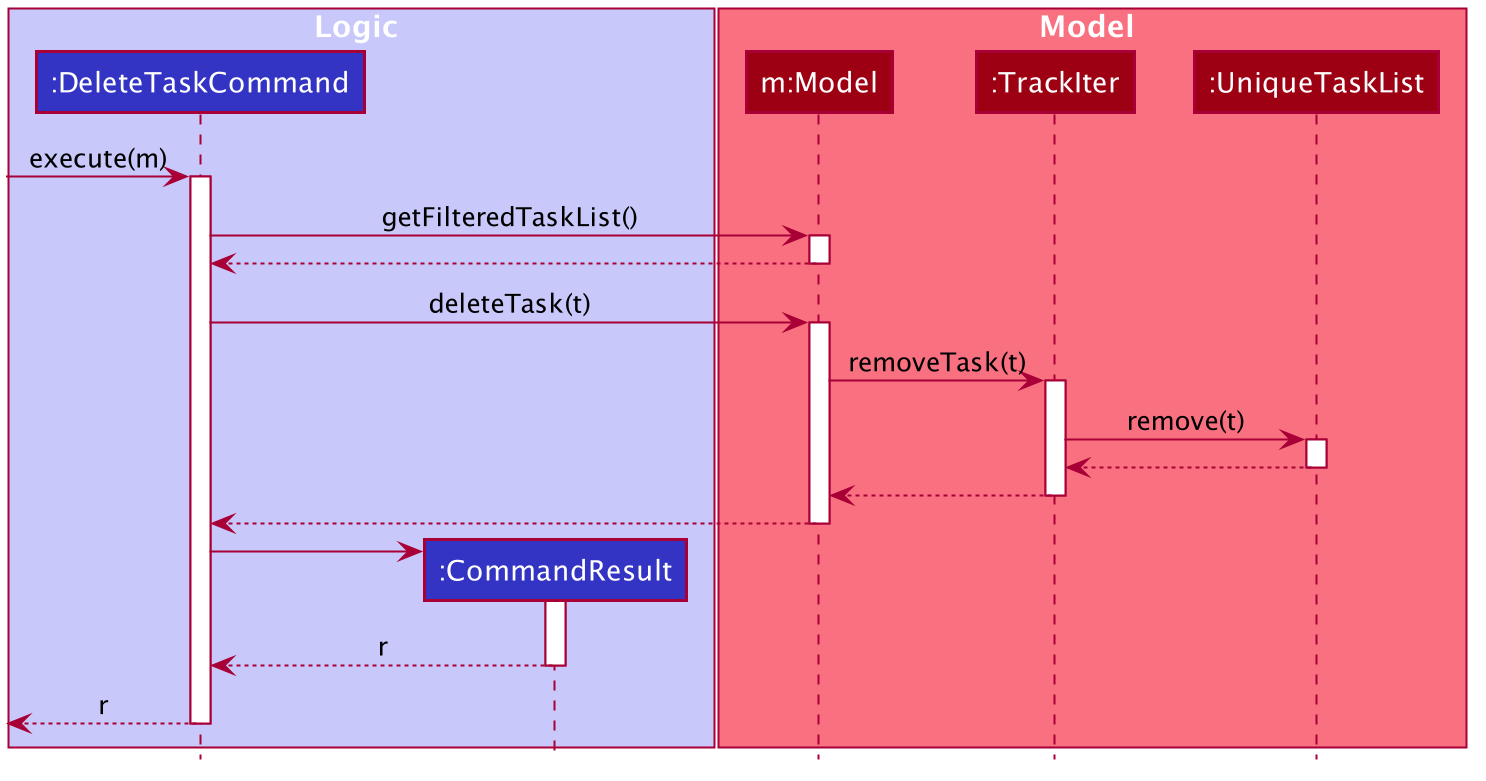
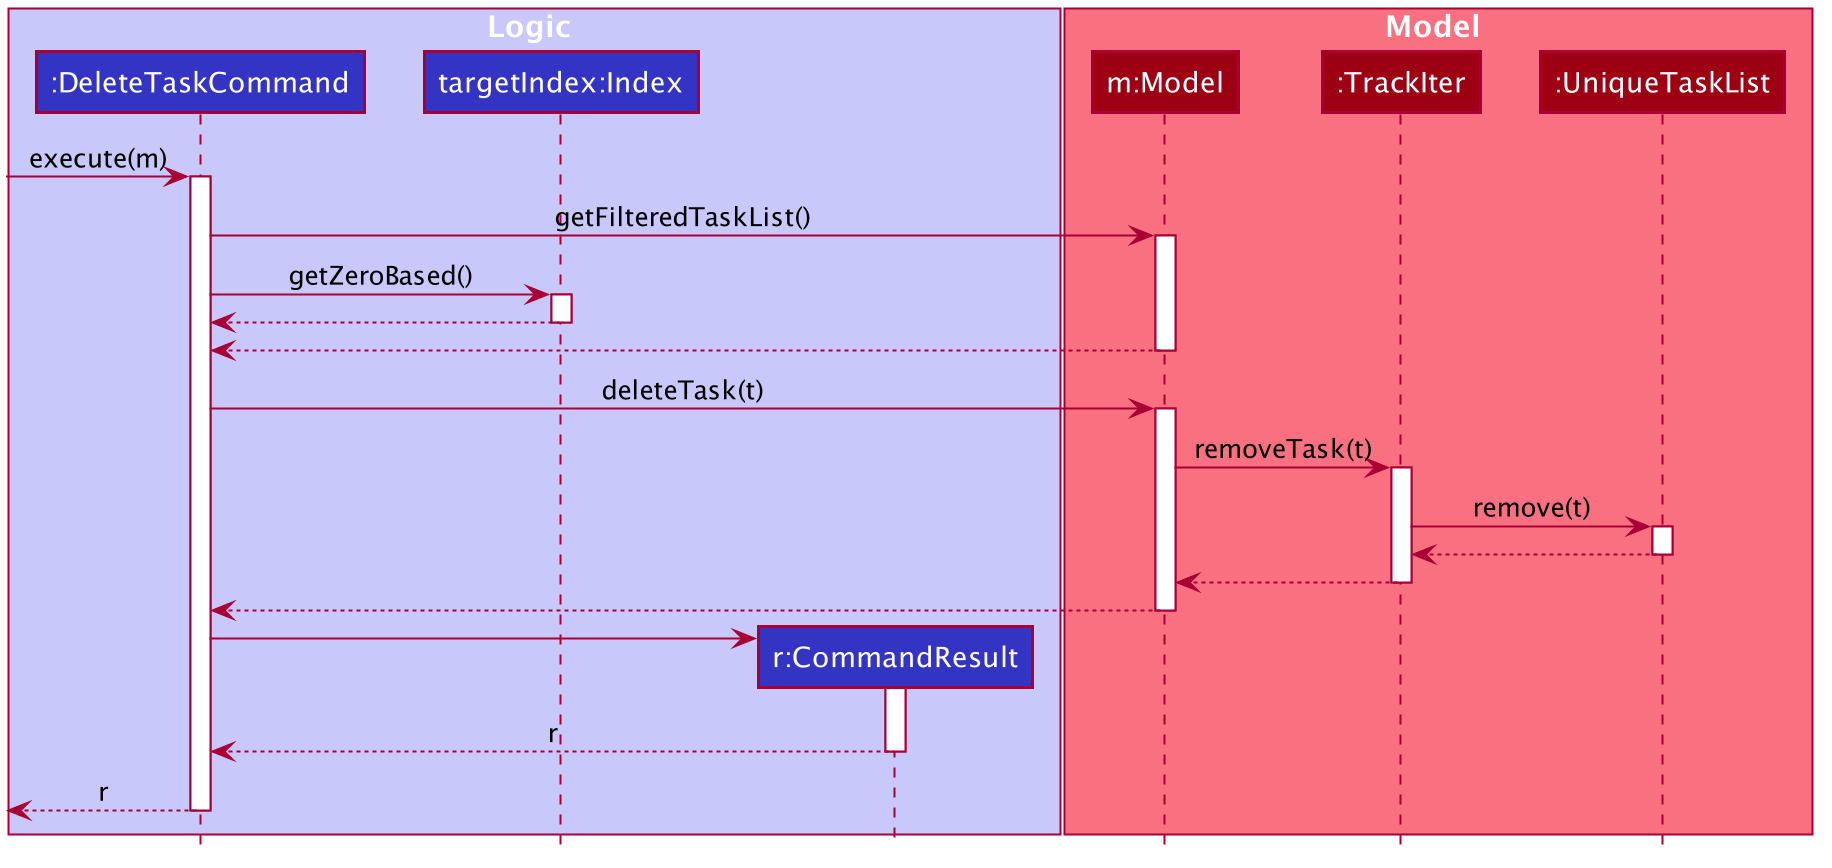
Improve explanations

Changed region(s): [[0.0, 0.0, 0.9906, 0.9834], [0.2786, 0.8297, 0.3096, 0.8912]]

diff --git a/docs/DeveloperGuide.md b/docs/DeveloperGuide.md
@@ -36,7 +36,7 @@ By: `Team W13-4` Since: `Aug 2020` License: `MIT`
 **TrackIt@NUS** is a desktop application for managing modules, lessons, tasks, and contacts, tailored to the needs of
  NUS students. It focuses on the _Command Line Interface (CLI)_ while providing users with a simple and clean
   _Graphical User Interface (GUI)_. The main iteraction with **TrackIt@NUS** will be done via commands.
-  
+
 **TrackIt@NUS** is an all-in-one solution for busy NUS students. The information that can be managed by **TrackIt@NUS
 ** includes:
 
@@ -63,6 +63,9 @@ In this section, you will learn about the general design and structure TrackIt@N
 
 ### **Architecture** <a name="architecture"></a>
 
+We implemented most of our methods in a similar way to ensure that the logic is uniform. This makes our code less bug
+-prone, and more maintainable.
+
 ### **UI Component** <a name="ui"></a>
 
 ### **Logic Component** <a name="logic"></a>
@@ -85,61 +88,99 @@ This section describes some noteworthy details on how certain features are imple
 
 ### **Task Manager** <a name="task-manager"></a>
 
-TrackIt@NUS allows users to keep track of his/her tasks. The task manager is one of TrackIt@NUS's basic operations
-.
+TrackIt@NUS allows users to keep track of his/her tasks. The task manager is one of TrackIt@NUS's basic components.
  
  #### Rationale
  
- The task manager is a crucial feature in TrackIt@NUS. Tasks are an integral part of any student's day-to-day life
- . In addition, to better support NUS students, a task can either belong to a module or not. When adding a task, users
-  can choose to the include the `m/MODULE_CODE` parameter in order to add a task that belongs to a module. When users
-   click into a specific module tab, they can see the tasks belonging to each module.
+ Tasks are an integral part of any student's day-to-day life. Hence, TrackIt@NUS includes a task manager for students to 
+ keep track of all their tasks. To better support NUS students, a task can either belong to a module or not. When
+  adding a task, users can choose to the include the `m/MODULE_CODE` parameter in order to add a task that belongs to
+   a module. When users click into a specific module tab, they can see the tasks belonging to each module.
    
 ![ModuleTasks](images/ModuleTasks.png)
     
 :information_source: A task does not have to belong a module. In this case, the module parameter of the task is
- simply treated as null.
+ simply treated as null and the task can only be viewed in the upcoming tab.
      
-:warning: The module must exist (i.e. there must be a module with the specified `MODULE_CODE`) otherwise the add
- command will not work.
+:warning: The module must exist (i.e. there must be a module with the specified `MODULE_CODE`) otherwise the add and
+ edit commands will not work.
  
-:bulb: To remove a task from a module, simply type `T edit INDEX m/` (use the `m/` prefix but leave the `MODULE_CODE
-` parameter empty).
+:bulb: To remove a task from a module, simply type `T edit INDEX m/` (use the `m/` prefix but leave the `MODULE_CODE` parameter empty).
 
 #### Current Implementation
- 
-In this section, we will outline the key commands of the Task Manager, namely: 
-* `AddTaskCommand` 
+
+In this section, we will outline the key commands of the Task Manager, namely:
+* `AddTaskCommand`
 * `DeleteTaskCommand`
 * `EditTaskCommand`
 
-We will also elaborate on more key function, namely `getModuleTasks`.
+We will also elaborate on one more key function, namely `getModuleTasks`.
 
-Generally, this is how a Task Manager handles a command.
+Generally, this is how the Task Manager handles a command.
  
  ![Add Task](images/AddTaskActivityDiagram.png)
-                                                                                                            
+ 
+The add, delete, and edit commands are all implemented in similar ways. When they are executed they will:
+ * call on the relevant Model methods
+ * update the `UniqueTaskList` depending on the command
+ * Save the updated task list to `data/trackIter.json`
+ * return the relevant CommandResult message
+ 
+When `AddTaskCommand` is executed, it will first call the model's `hasTask` method to ensure that the task does not
+ yet exist in the app. Following this, if the task is added with a non-null module code, it will call the model's
+  `hasModule` method to ensure that the specified module exists. If both these checks pass, `AddTaskCommand` will
+   call the model's `addTask` method.
+   
+The model will then call the `addTask` method of TrackIter, which calls the `add` method of UniqueTaskList and adds
+ the task to the app.
+
 The following shows the sequence diagram of the `AddTaskCommand`.
 
 ![Add Task Sequence Diagram](images/AddTaskSequenceDiagram.png)
 
-The following shows the sequence diagram of the `DeleteTaskCommand`.
+When the `DeleteTaskCommand` is executed, it will first call the model's `getFilteredTaskList` method to
+ determine the last shown list of tasks. Then, it will call the index's `getZeroBased` method to find the
+ zero-based index of the task it must delete. Then, it will check if this index is within range. If it is, it
+ calls the model's `deleteTask` method.
  
+The model will then call the `removeTask` method of TrackIter, which calls the `remove` method of UniqueTaskList and
+ deletes the task in question from the app.
+
+The following shows the sequence diagram of the `DeleteTaskCommand`.
+
 ![Delete Task Sequence Diagram](images/DeleteTaskSequenceDiagram.png)
+
+When the `EditTaskCommand` is executed, it will first call the model's `getFilteredTaskList` method to determine the
+ last shown list of tasks. Then, it will call the index's `getZeroBased` method to find the zero-basd index of the
+  task we must edit. It will then check if the index is within range. If it is, it calls the model's `setTask` method.
+  
+The model will then call the `setTask` method of TrackIter, which calls the `setTask` method of UniqueTaskList and
+ replace the original task with the edited version in the app.
 
 The follow shows the sequence diagram of the `EditTaskCommand`.
 
 ![Edit Task Sequence Diagram](images/EditTaskSequenceDiagram.png)
 
-The following shows the sequence diagram of `getModuleTasks`.
+The `getModuleTasks` function takes in a Module Code and returns all tasks that belong to the specified module.
+. When `getModuleTasks` is called, it uses the `TaskHasCodePredicate` to update the task list in the app to only show
+ the tasks that belong the specified module code.
+
+This is the sequence diagram of `getModuleTasks`.
 
 ![Get Module Tasks Sequence Diagram](images/GetModuleTasksSequenceDiagram.png)
 
 #### Design Considerations
 
-Just by observing the above 3 sequence diagrams, it is clear that adding, deleting, and editing a task are
- implemented in very similar ways. We chose to do this for simplicity. All task-related commands should behave the
-  same way and hence it is easier for developers to learn the code base and make contributions. 
+As mentioned, a task may or may not belong to a module. In the case it does not, we store the module code as
+ null. A task also may or may not have a remark. In the case it does not, we store the remark as the empty
+  string. These 2 optional fields made the `EditTaskCommand` more challenging to implement. We wanted the user to be
+   able to remove an existing module code or remark simply by typing `T edit INDEX m/` and `T edit INDEX r/` respectively.
+     
+![Edit Task Activity Diagram](images/EditTaskActivityDiagram.png)
+   
+The original AB3 implementation of edit commands, which would default to the original field if the edited
+ field was null, would not be sufficient. Hence, we added 2 additional boolean variables - `isRemarkChanged` and
+  `isCodeChanged`, to know whether users wanted to remove the existing module code or remark.
 
 ### **Contact Manager** <a name="contact-manager"></a>
 
@@ -246,7 +287,7 @@ Priorities: High (must have) - `* * *`, Medium (nice to have) - `* *`, Low (unli
 * **Facade Pattern** <a name="facade-p"></a>: A structural design pattern that provides a simplified 
 (but limited) interface to a complex system of classes, library or framework.
  While decreasing the overall complexity of the application, it also helps to move unwanted dependencies to one place
- 
+
 * **Command Pattern** <a name="command-p"></a>: A Design Pattern that lets you encapsulate actions within Java
  classes. Of which, each class has an `execute()` method which is declared in the Command interface the class implements
 

diff --git a/docs/UserGuide.md b/docs/UserGuide.md
@@ -66,8 +66,8 @@ What are you waiting for? Head on to [Section 2, **Quick Start**](#quick-start) 
 ## About <a name="about"></a>
 
 There are many things you can use TrackIt@NUS for. We have structured this document so it is easy for you to find
- what you need. In the [Common Symbols](#common-symbols), [Command Format](#command-format), and 
- [Commands and their Purposes](#command-purpose) sections, you will find useful tips on reading this document. It is
+ what you need. In the [Common Symbols](#common-symbols), [Command Format](#command-format), and [Commands and their
+  Purposes](#command-purpose) sections, you will find useful tips on reading this document. It is
   then followed by the [Features](#features) section, where the main features of TrackIt@NUS are documented.
 
 ### Common Symbols <a name="common-symbols"></a>
@@ -147,8 +147,8 @@ Here under each module's tab you can find all relevant **Lessons**, **Tasks** an
 --------------------------------------------------------------------------------------------------------------------
 ## Features <a name="features"></a>
 
-This section contains all the information you need to know about the features of TrackIt@NUS. To use each feature 
-or sub-feature, you will need to enter the command into the Command Box.
+This section contains all the information you need to know about the features of TrackIt@NUS. To use each feature or
+ sub-feature, you will need to enter the command into the Command Box.
 
 ## Module <a name="module"></a>
 Module is the first thing you need to create when you start using the app, because each module will be the house for 
@@ -263,11 +263,8 @@ Managing all your tasks can be so stressful! TrackIt@NUS helps alleviate that st
 
 This sorts all your tasks by date. To view module-specific tasks, click on any of the module tabs as shown below.
 
-<<<<<<< HEAD
-=======
 ![ModuleTasks](images/ModuleTasks.png)
 
->>>>>>> Write rationale for Task Manager
 :information_source: All module-specific tasks are shown in the upcoming tab, but not vice versa.
 
 You can also perform commands on the tasks as explained below.
@@ -275,11 +272,11 @@ You can also perform commands on the tasks as explained below.
 ### Add
 
 After a day of school you realise that you now have a few more tasks to complete and wish to keep track of them. This is
- the command for adding a new task to TrackIt@NUS. 
+ the command for adding a new task to TrackIt@NUS.
 
 Format: `T add n/NAME d/DATE [m/MODULE_CODE] [r/REMARK]`
 
-Examples: 
+Examples:
 
 * `T add n/Assignment 1 m/CS2100 d/20/11/2020 r/Focus on Chapters 1-3`
 * `T add n/Plan for Bob's birthday d/12/11/2020`
@@ -295,13 +292,13 @@ After adding a task to TrackIt@NUS, you may want to change it, perhaps extend th
 
 Format: `T edit INDEX [n/NAME] [d/DATE] [m/MODULE_CODE] [r/REMARK]`
 
-Examples: 
+Examples:
 
 ![EditTask](images/EditTask.png)
 
 * `T edit 2 n/Work on midterm report` changes the name of the Task
 * `T edit 2 r/min 1000 words` changes the remark of the Task
-* `T edit 2 m/CS2100` changes the module code of the Task 
+* `T edit 2 m/CS2100` changes the module code of the Task
 
 :information_source: The `INDEX` provided must be positive and cannot be larger than number of Tasks
 

diff --git a/docs/SettingUp.md b/docs/SettingUp.md
@@ -17,11 +17,11 @@
 2. Open IntelliJ (if your are not in the welcome screen, click `File` > `Close Project` to close the existing project
  dialog first)
  
- 3. Configure the JDK
-    1. Click `Configure` > `Project Defaults` > `Project Structure`
-    2. Click `New…` and find the directory of the JDK
-    3. Follow the guide [_[se-edu/guides] IDEA: Configuring the JDK_](https://se-education.org/guides/tutorials/intellijJdk.html) 
-    for more information
+3. Configure the JDK
+   1. Click `Configure` > `Project Defaults` > `Project Structure`
+   2. Click `New…` and find the directory of the JDK
+   3. Follow the guide [_[se-edu/guides] IDEA: Configuring the JDK_](https://se-education.org/guides/tutorials/intellijJdk.html) 
+   for more information
     
 4. Click `Import Project`
 
@@ -41,10 +41,9 @@
 
 ### Configuring the Coding Style
 
-   If using IDEA, follow the guide [_[se-edu/guides] IDEA: Configuring the code style_](https://se-education.org/guides/tutorials/checkstyle.html) to set up IDEA's coding style to match ours.
+If using IDEA, follow the guide [_[se-edu/guides] IDEA: Configuring the code style_](https://se-education.org/guides/tutorials/checkstyle.html) to set up IDEA's coding style to match ours.
 
- :bulb: Optionally, you can follow the guide [_[se-edu/guides] Using Checkstyle_](https://se-education.org/guides/tutorials/checkstyle.html) 
- to find how to use the CheckStyle within IDEA e.g., to report problems as you write code.
+:bulb: Optionally, you can follow the guide [_[se-edu/guides] Using Checkstyle_](https://se-education.org/guides/tutorials/checkstyle.html) to find how to use the CheckStyle within IDEA e.g., to report problems as you write code.
 
 1. **Set up CI**
 
